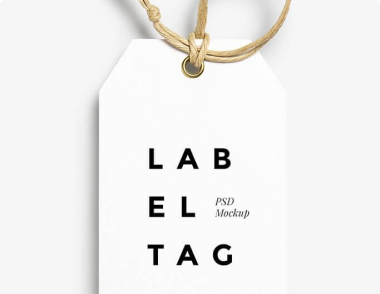
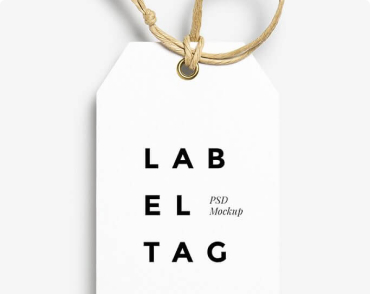
Додає нові зображення, меншого розміру

diff --git a/portfolio.html b/portfolio.html
@@ -68,7 +68,7 @@
                     <img
                       src="./images/project-1.jpg"
                       alt="Экран ноутбука на котором открыт сайт Технокряк"
-                      width="380"
+                      width="370"
                       height="294"
                     />
                     <p>
@@ -90,7 +90,7 @@
                     <img
                       src="./images/project-2.jpg"
                       alt="Постер с двумя игроками команд New Orlean и Golden Stars"
-                      width="380"
+                      width="370"
                       height="294"
                     />
                     <p>
@@ -102,7 +102,7 @@
                   </div>
                   <div class="portfolio-description">
                     <h2 class="portfolio-item">
-                      Постер New Orlean vs Golden Stars
+                      Постер New Orlean vs Golden Star
                     </h2>
                     <p class="portfolio-type">Дизайн</p>
                   </div></a
@@ -114,7 +114,7 @@
                     <img
                       src="./images/project-3.jpg"
                       alt="Эмблема ресторана Seafood"
-                      width="380"
+                      width="370"
                       height="294"
                     />
                     <p>
@@ -136,7 +136,7 @@
                     <img
                       src="./images/project-4.jpg"
                       alt="Наушники"
-                      width="380"
+                      width="370"
                       height="294"
                     />
                     <p>
@@ -158,7 +158,7 @@
                     <img
                       src="./images/project-5.jpg"
                       alt="Эмблема приложения Boxes: две коробки"
-                      width="380"
+                      width="370"
                       height="294"
                     />
                     <p>
@@ -180,7 +180,7 @@
                     <img
                       src="./images/screen.jpg"
                       alt="Экран компьютера с открытым сайтом"
-                      width="380"
+                      width="370"
                       height="294"
                     />
                     <p>
@@ -202,7 +202,7 @@
                     <img
                       src="./images/project-7.jpg"
                       alt="Открытый журнал Limited Edition"
-                      width="380"
+                      width="370"
                       height="294"
                     />
                     <p>
@@ -224,7 +224,7 @@
                     <img
                       src="./images/project-8.jpg"
                       alt="Этикетка с надписью Lab El Tag"
-                      width="380"
+                      width="370"
                       height="294"
                     />
                     <p>
@@ -246,7 +246,7 @@
                     <img
                       src="./images/app.jpg"
                       alt="Человек работающий за компьютером"
-                      width="380"
+                      width="370"
                       height="294"
                     />
                     <p>

diff --git a/index.html b/index.html
@@ -100,7 +100,7 @@
               <img
                 src="./images/app.jpg"
                 alt="человек работающий за компьютером"
-                width="380"
+                width="370"
                 height="294"
               />
               <h3 class="service-title">Десктопные приложения</h3>
@@ -109,7 +109,7 @@
               <img
                 src="./images/phone.jpg"
                 alt="смартфон"
-                width="380"
+                width="370"
                 height="294"
               />
               <h3 class="service-title">Мобильные приложения</h3>
@@ -118,7 +118,7 @@
               <img
                 src="./images/screen.jpg"
                 alt="экран компьютера с дизайном программы"
-                width="380"
+                width="370"
                 height="294"
               />
               <h3 class="service-title">Дизайнерские решения</h3>
@@ -137,7 +137,7 @@
                 class="photo"
                 src="./images/smith-photo.jpg"
                 alt="фото Джона Смитта"
-                width="278"
+                width="270"
                 height="260"
               />
               <div class="worker-info">
@@ -185,7 +185,7 @@
                 class="photo"
                 src="./images/steward-photo.jpg"
                 alt="фото Марты Стюарт"
-                width="278"
+                width="270"
                 height="260"
               />
               <div class="worker-info">
@@ -233,7 +233,7 @@
                 class="photo"
                 src="./images/jakis-photo.jpg"
                 alt="фото Роберта Джекиса"
-                width="278"
+                width="270"
                 height="260"
               />
               <div class="worker-info">
@@ -281,7 +281,7 @@
                 class="photo"
                 src="./images/doe-photo.jpg"
                 alt="фото Мартина Доу"
-                width="278"
+                width="270"
                 height="260"
               />
               <div class="worker-info">
